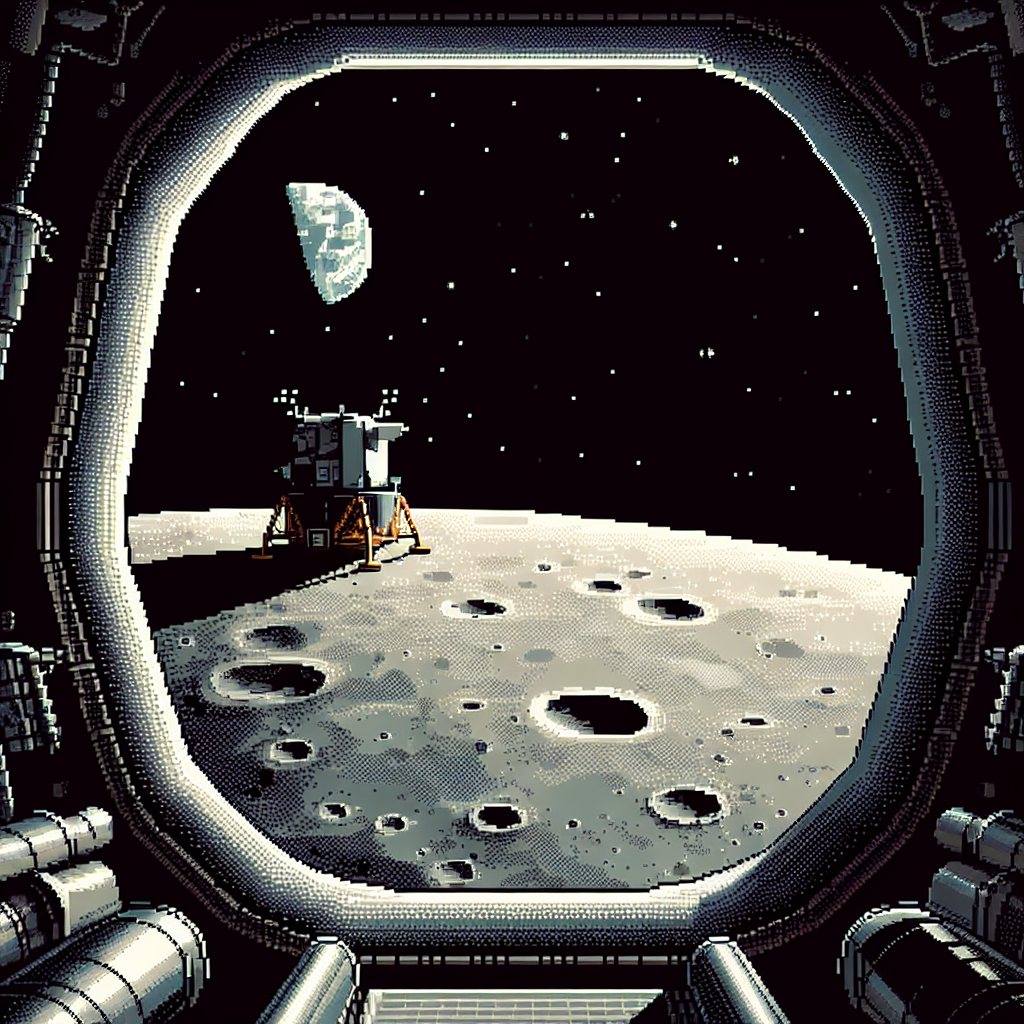
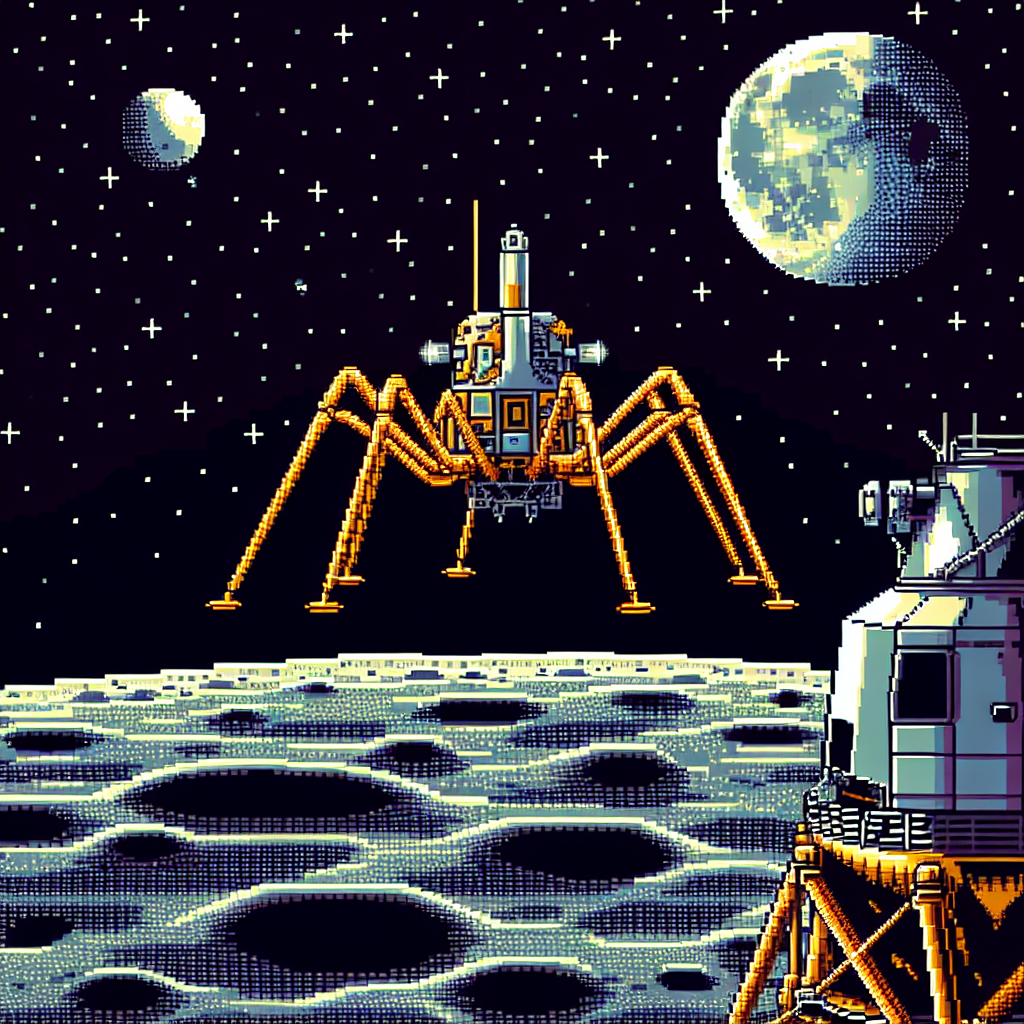
Replace Apollo images act-27 to act-40 with pixel art style
All images regenerated in 16-bit pixel art style to match game aesthetic:
- act-27: Rest Period (LM interior with earthlight)
- act-28: Ascent Ignition (LM lifting off)
- act-29: Orbit Insertion (Eagle in lunar orbit)
- act-30: Rendezvous (Eagle and Columbia meeting)
- act-31: Docking (spacecraft connected)
- act-32: Jettison Eagle (LM drifting away)
- act-33: TEI Burn (engine firing toward Earth)
- act-34: Earthrise (iconic Earth over lunar horizon)
- act-35: Coasting (spacecraft in BBQ roll)
- act-36: Re-entry Prep (CM separating from SM)
- act-37: Blackout (fiery re-entry)
- act-38: Drogues Deployed (drogue chutes in clouds)
- act-39: Splashdown (orange parachutes, ocean landing)
- act-40: Hornet+3 (Navy recovery scene)

Added CLAUDE.md with image generation guidelines.

diff --git a/CLAUDE.md b/CLAUDE.md
@@ -1,0 +1,28 @@
+# Project Notes for Claude
+
+## Image Generation Guidelines
+
+**IMPORTANT: All images should be in PIXEL ART style**
+
+When generating images for the Apollo story (or any story), use pixel art style:
+- "16-bit pixel art style" or "retro pixel art"
+- Limited color palette
+- Blocky/pixelated appearance
+- Game-like aesthetic
+- NO realistic photography style
+- NO photorealistic renders
+
+Example prompt structure:
+```
+16-bit pixel art style, [scene description], limited color palette, retro game aesthetic, no text
+```
+
+## Story Themes
+
+- **Apollo (Story 1)**: 1969 Moon landing, historically accurate
+- **Alchemist (Story 2)**: Medieval Prague, alchemy, mystery
+- **Archimedes (Story 3)**: Ancient Syracuse, Greek mathematician
+
+## Minigame Types
+
+Each story uses various minigames. Ensure theme prop is passed correctly to minigame components.
